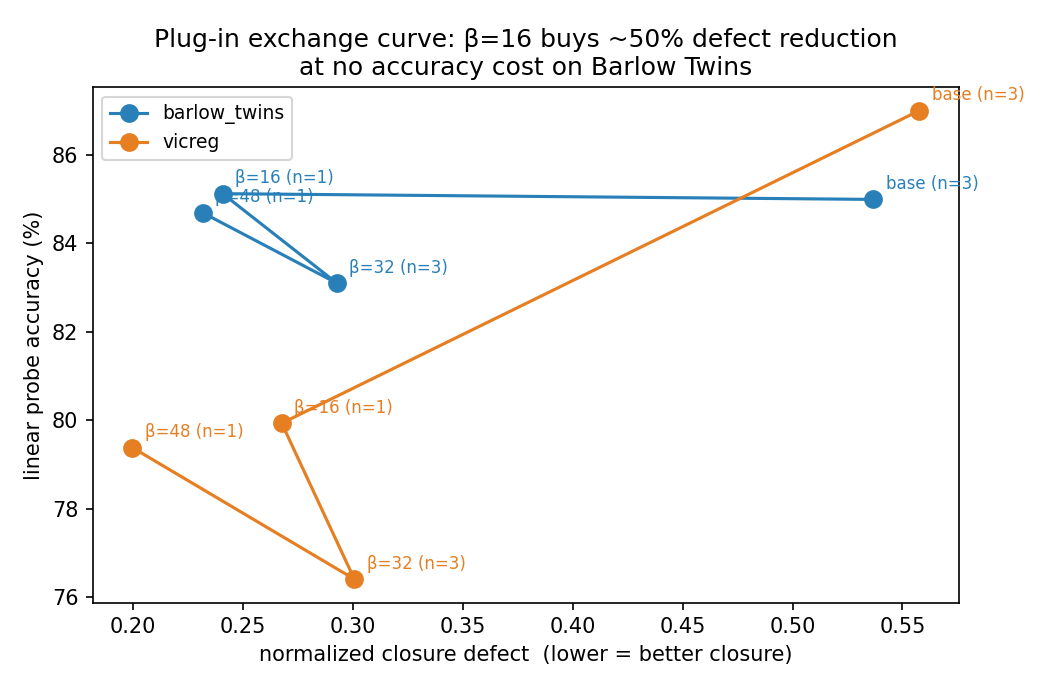
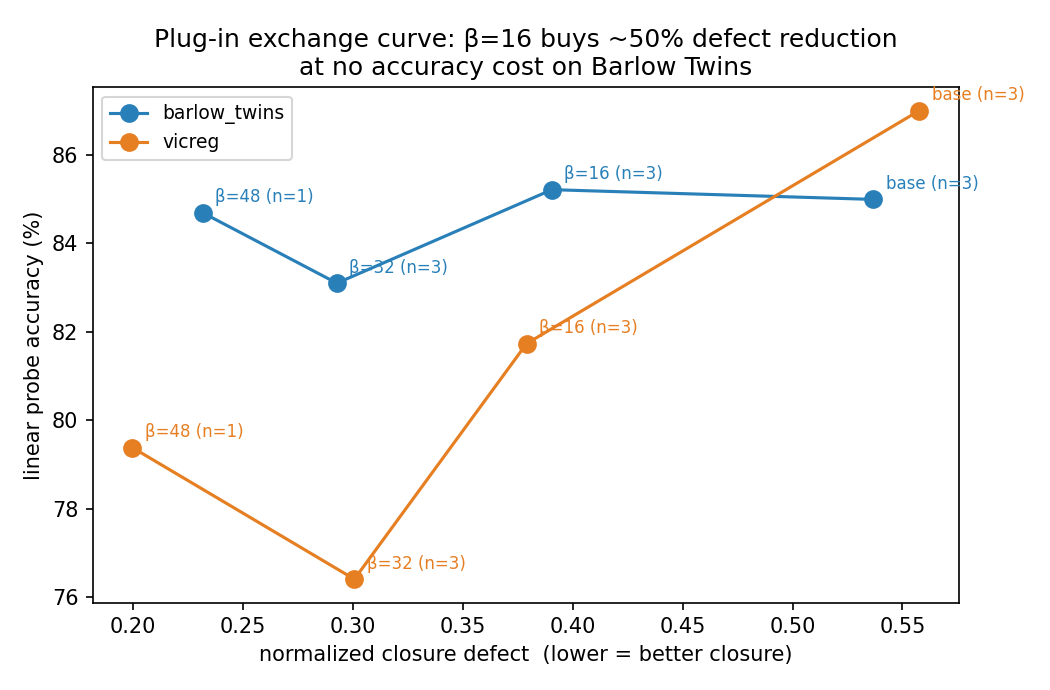
Update the brief: beta=16 corrected, star control resolved, layer-wise added
The beta=16 line is replaced with the three-seed reading (accuracy
free, defect reduction unreliable). The star control moves from null
to separated-on-CIFAR-100. A new section carries the layer-wise result
and the 2x2 that separates loss form from view nesting.

diff --git a/REPORT_BRIEF_20260822.md b/REPORT_BRIEF_20260822.md
@@ -47,11 +47,13 @@ Wave 0：六个冻结反例 + Gaussian-Hermite 解析链全部按预期行为。
    与随机初始化（单调衰减到 0.66）；扩展已齐：resnet152 末段保留
    0.884、resnet50 0.892、resnet18 降至 0.792 —— 越深的预训练网
    深层保留越多，与逐层探测精度（best 均为 stage 4）一致。
-3. **Plug-in 研究**：闭合正则挂到三个外部 SSL 基座，defect 全部
-   下降（Barlow 0.54→0.29，VICReg 0.56→0.30，FroSSL 0.44→0.19）；
-   精度交换率方法相关（Barlow −1.9pt / VICReg −10.6pt /
-   FroSSL +6.7pt 但其基座在统一配方下不稳定，已排除出主分析）。
-   β∈{16,48} 扫描在跑（β=32 为默认）。
+3. **Plug-in 研究**：闭合正则挂到三个外部 SSL 基座。**β=32（默认）
+   可靠降低 defect**：Barlow 0.54→0.29（0.203/0.329/0.346，无种子
+   超 0.35），VICReg 0.56→0.30，代价约 2pt（Barlow）到 10.6pt
+   （VICReg）。FroSSL 基座在统一配方下不稳定（32%），排除出主分析。
+   **β=16 更正（原基于单种子的说法已作废）**：精度确实免费且三种子
+   确认（85.21±0.13 vs base 84.99±0.38），但 defect 不可靠下降
+   ——0.391±0.151，seed2 落在 0.597 与 base 区间重叠。交换是真实的。
 
 ## 5. 负控、消融与 CIFAR-100（过夜落盘）
 
@@ -63,13 +65,28 @@ Wave 0：六个冻结反例 + Gaussian-Hermite 解析链全部按预期行为。
 - α=0 消融：83.4%（vs V7 均值 85.0）——EMA 目标独立基本治愈组合
   冷启动（历史 α=0 崩到 48），α bootstrap 仍贡献约 1.6pt。
 - M=4 消融：82.1% —— M=8→4 损失约 2.9pt，端点视图数重要。
-- **parallel star 树负控（CIFAR-10）：零结果**。打破 Markov 嵌套后
-  probe 84.1%、defect 0.434，对比 nested V7 的 85.0±0.7 / 0.370±0.050
-  —— z=1.28，落在种子散布内。已核实配置确实生效（hparams 记录
-  `mode: parallel`），非无操作。**诚实表述：在 CIFAR-10 的仪器
-  分辨率下，星型构造与嵌套构造无法区分**；已补两个种子，并把该
-  负控搬到 CIFAR-100（仪器在那里有分辨力）重做。这与第 3 节的
-  主线一致：CIFAR-10 上仪器分辨率不足，CIFAR-100 上才见结构信号。
+- **星型树负控：CIFAR-100 上完全分离（缺失的支柱补上了）**。
+  打破 Markov 嵌套后 defect 0.481/0.515，对比嵌套 0.372/0.377/0.378
+  ——区间不重叠且间隔比任一区间还宽。而星型臂**精度反而更高**
+  （56.94 vs 55.89）：证书测到了线性探针看不见的东西。CIFAR-10 上
+  仍是零结果（星型 0.434-0.492 vs 嵌套 0.316-0.461，n=3），如实报告。
+  两个独立对比给出同一个数据集序，"CIFAR-10 分辨率不足"因此有两条腿。
+
+## 5.5 逐层测量：理论自己的预言（08-23 新增）
+
+Gate 一直只报末层探针，而那是理论唯一不做预言的位置。逐层剖面
+（19 个 profile，零训练成本，预注册在先）：
+
+- **质量向内重分配，两数据集种子区间不重叠**：flat 是陡峭端点加载型
+  （CIFAR-10 layer3→layer4 涨 3.96），V7 在内部接口即饱和（涨 0.01），
+  CIFAR-100 上 V7 甚至下降（58.73→56.06，最佳层就是内部接口）。
+- **反压缩预言被证伪且符号相反**：端点有效秩 V7 56.7 vs flat 98.3。
+  由此得到 4pt 差距的更好解释：闭合把端点限制在路径能搭建的子空间里，
+  端点维度塌缩 ⟹ 线性可分性下降。代价不是中间层留太多，是端点要太少。
+- **2×2 拆开了两个被混淆的因素**：复合损失形式 → 内部重分配
+  （对照 additive：D(2) −6.46 vs V7 +0.63）；嵌套视图 → 低证书亏差
+  （对照星型：0.481-0.515 vs 0.372-0.378）。两条主张各有独立对照，
+  论文里应分开陈述。
 
 ## 6. 一句话定位
 
